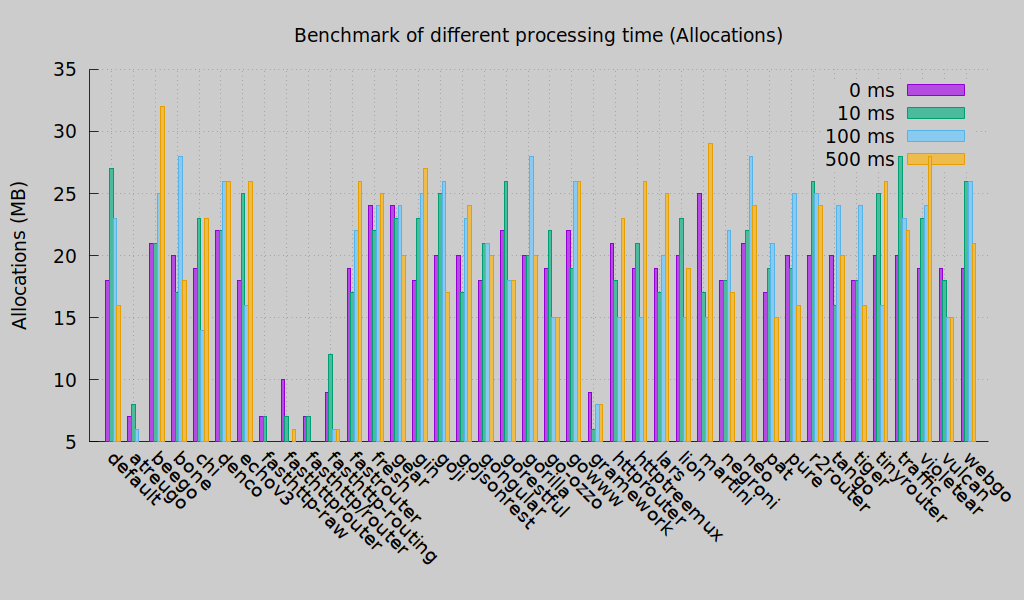
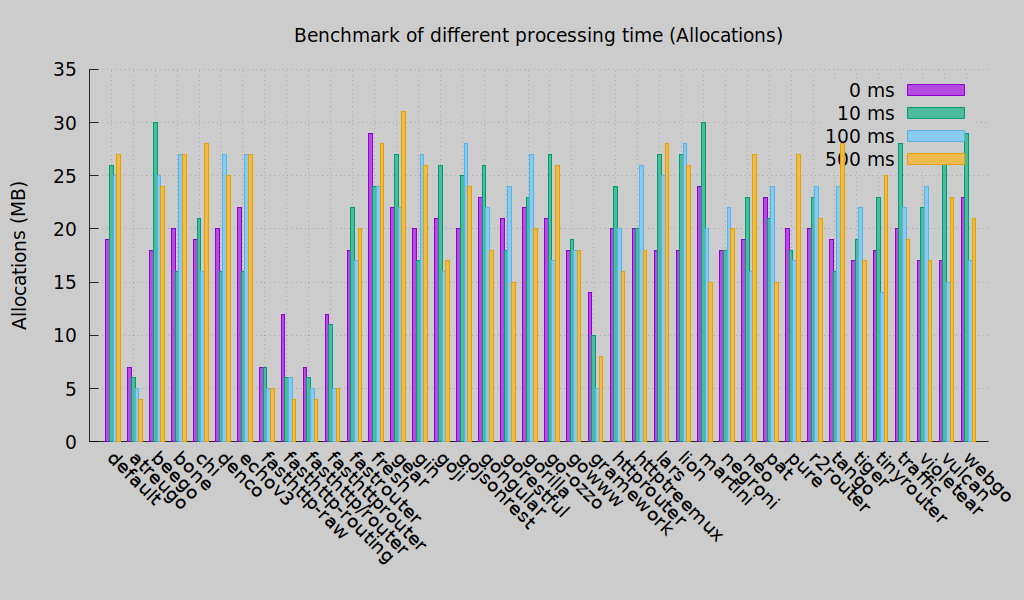
Upgrade fasthttp/router to v0.3.1 and update benchmarks

diff --git a/README.md b/README.md
@@ -1,7 +1,7 @@
 # go-web-framework-benchmark
 This benchmark suite aims to compare the performance of Go web frameworks. It is inspired by [Go HTTP Router Benchmark](https://github.com/julienschmidt/go-http-routing-benchmark) but this benchmark suite is different with that. Go HTTP Router Benchmark suit aims to compare the performance of **routers** but this Benchmark suit aims to compare whole HTTP request processing.
 
-**Last Test Updated:** 2019-01-03
+**Last Test Updated:** 2019-01-04
 
 *test environment*
 
